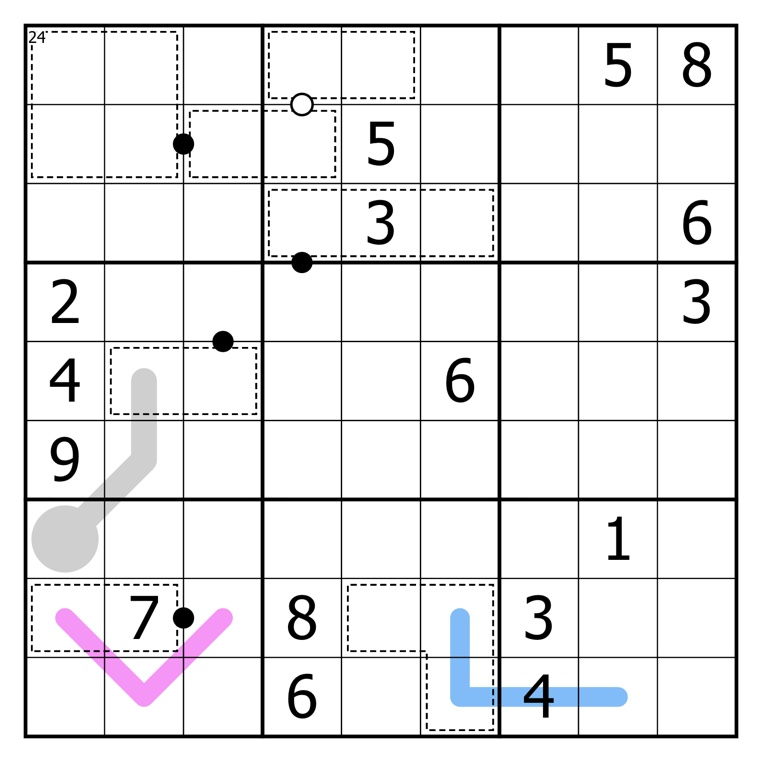
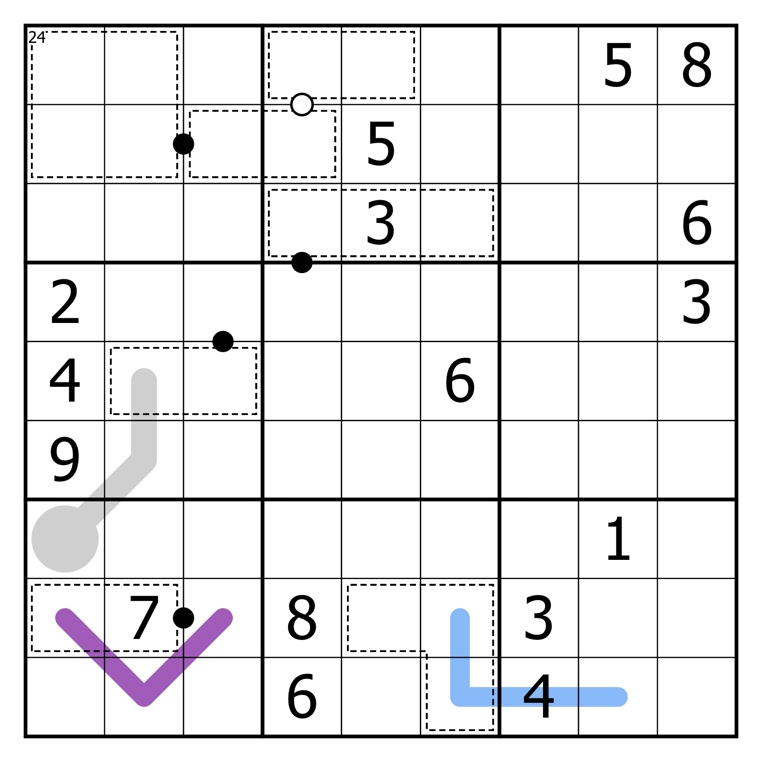
24 Sudoku: new SudokuPad link and picture (color-blind accessible line colors)

Changed region(s): [[0.0604, 0.7848, 0.3018, 0.9357]]

diff --git a/index.html b/index.html
@@ -53,7 +53,7 @@
 <img src="assets/button.svg" alt="Feeling lucky?"></a></p>
 </header>
 <main>
-<article><a href="https://sudokupad.app/1su79vwrkv" data-goatcounter-click="play/24-sudoku"><img src="pictures/24-sudoku.jpg" alt="24 Sudoku" loading="lazy"></a><h2>24 Sudoku</h2><p class="stars" title="Difficulty 2 of 5" aria-label="Difficulty 2 of 5"><span class="on">★</span><span class="on">★</span><span>★</span><span>★</span><span>★</span></p><p class="links"><a href="https://sudokupad.app/1su79vwrkv" data-goatcounter-click="play/24-sudoku">Play</a> <a href="https://logic-masters.de/Raetselportal/Raetsel/zeigen.php?id=000W7Z" data-goatcounter-click="lmd/24-sudoku">Logic Masters</a></p></article>
+<article><a href="https://sudokupad.app/cwdd529czc" data-goatcounter-click="play/24-sudoku"><img src="pictures/24-sudoku.jpg" alt="24 Sudoku" loading="lazy"></a><h2>24 Sudoku</h2><p class="stars" title="Difficulty 2 of 5" aria-label="Difficulty 2 of 5"><span class="on">★</span><span class="on">★</span><span>★</span><span>★</span><span>★</span></p><p class="links"><a href="https://sudokupad.app/cwdd529czc" data-goatcounter-click="play/24-sudoku">Play</a> <a href="https://logic-masters.de/Raetselportal/Raetsel/zeigen.php?id=000W7Z" data-goatcounter-click="lmd/24-sudoku">Logic Masters</a></p></article>
 <article><a href="https://sudokupad.app/x4cb4h43o1" data-goatcounter-click="play/mastermind-sudoku"><img src="pictures/mastermind-sudoku.jpg" alt="Mastermind Sudoku" loading="lazy"></a><h2>Mastermind Sudoku</h2><p class="stars" title="Difficulty 2 of 5" aria-label="Difficulty 2 of 5"><span class="on">★</span><span class="on">★</span><span>★</span><span>★</span><span>★</span></p><p class="links"><a href="https://sudokupad.app/x4cb4h43o1" data-goatcounter-click="play/mastermind-sudoku">Play</a> <a href="https://logic-masters.de/Raetselportal/Raetsel/zeigen.php?id=000W5N" data-goatcounter-click="lmd/mastermind-sudoku">Logic Masters</a></p></article>
 <article><a href="https://sudokupad.app/mnltw1i5nz" data-goatcounter-click="play/n-line-sudoku"><img src="pictures/n-line-sudoku.jpg" alt="N-Line Sudoku" loading="lazy"></a><h2>N-Line Sudoku</h2><p class="stars" title="Difficulty 2 of 5" aria-label="Difficulty 2 of 5"><span class="on">★</span><span class="on">★</span><span>★</span><span>★</span><span>★</span></p><p class="links"><a href="https://sudokupad.app/mnltw1i5nz" data-goatcounter-click="play/n-line-sudoku">Play</a> <a href="https://logic-masters.de/Raetselportal/Raetsel/zeigen.php?id=000W27" data-goatcounter-click="lmd/n-line-sudoku">Logic Masters</a></p></article>
 <article><a href="https://sudokupad.app/4l6w7tjiym" data-goatcounter-click="play/minigandr"><img src="pictures/minigandr.jpg" alt="Mïnigandr" loading="lazy"></a><h2>Mïnigandr</h2><p class="stars" title="Difficulty 5 of 5" aria-label="Difficulty 5 of 5"><span class="on">★</span><span class="on">★</span><span class="on">★</span><span class="on">★</span><span class="on">★</span></p><p class="links"><a href="https://sudokupad.app/4l6w7tjiym" data-goatcounter-click="play/minigandr">Play</a> <a href="https://logic-masters.de/Raetselportal/Raetsel/zeigen.php?id=000W1I" data-goatcounter-click="lmd/minigandr">Logic Masters</a> <a class="solve youtube" href="https://www.youtube.com/watch?v=YKvoxEX8f0I" data-goatcounter-click="solve/minigandr/youtube">CtC solve</a></p></article>
